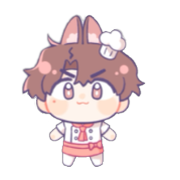
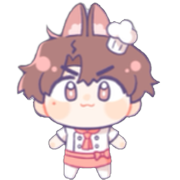
底色改回原本柔和配色，重新置中裁剪过的图案
- 月亮/兔兔/狗狗/小派/小远底色饱和度还原为原本较舒服的浅色调
- 兔兔/狗狗/小派/小远图案套用使用者手动裁剪版本，等比缩放置中贴回180x180透明画布
- 电影板套用使用者重新上色的版本

Changed region(s): [[0.0833, 0.0, 0.8889, 1.0], [0.3611, 0.9722, 0.4167, 1.0], [0.3611, 0.6111, 0.3889, 0.6389]]

diff --git a/game.js b/game.js
@@ -33,17 +33,17 @@ const DIARY_BG_BBOX = {x1:616, y1:1001, x2:1431, y2:2199};
 const TILE_TYPES = [
   { name:'butterfly', bg:'#e3f2fb', img:'assets/tiles/butterfly.png' },
   { name:'star',      bg:'#fde9c8', img:'assets/tiles/star.png' },
-  { name:'bunny',     bg:'#f6b8d6', img:'assets/tiles/bunny.png' },
-  { name:'dogface',   bg:'#b9dc8f', img:'assets/tiles/dogface.png' },
-  { name:'moonface',  bg:'#c9b3ea', img:'assets/tiles/moonface.png' },
+  { name:'bunny',     bg:'#fbe3ef', img:'assets/tiles/bunny.png' },
+  { name:'dogface',   bg:'#eef2e0', img:'assets/tiles/dogface.png' },
+  { name:'moonface',  bg:'#ece6f7', img:'assets/tiles/moonface.png' },
   { name:'movie',     bg:'#f5f0e6', img:'assets/tiles/movie.png' },
   { name:'mic',       bg:'#dfe9ee', img:'assets/tiles/mic.png' },
   { name:'rose',      bg:'#fbe0e6', img:'assets/tiles/rose.png' },
   { name:'dog',       bg:'#fbe9dd', img:'assets/tiles/dog.png' },
   { name:'sun',       bg:'#fff3c4', img:'assets/tiles/sun.png' },
   { name:'heart',     bg:'#f6d4c9', img:'assets/tiles/heart.png' },
-  { name:'xiaopai',   bg:'#f58aa8', img:'assets/tiles/xiaopai.png' },
-  { name:'xiaoyuan',  bg:'#7dc98a', img:'assets/tiles/xiaoyuan.png' },
+  { name:'xiaopai',   bg:'#fadce6', img:'assets/tiles/xiaopai.png' },
+  { name:'xiaoyuan',  bg:'#dff0df', img:'assets/tiles/xiaoyuan.png' },
 ];
 // 小派/小远两张角色图不算常设图案,只在剧情日记关卡(MILESTONES)跟纪念品触发关卡(MEMENTO_LEVELS)出现,
 // 直接顶替掉当关的兔兔(bunny)/狗狗(dogface),图案总数不变,难度不会因此变高
